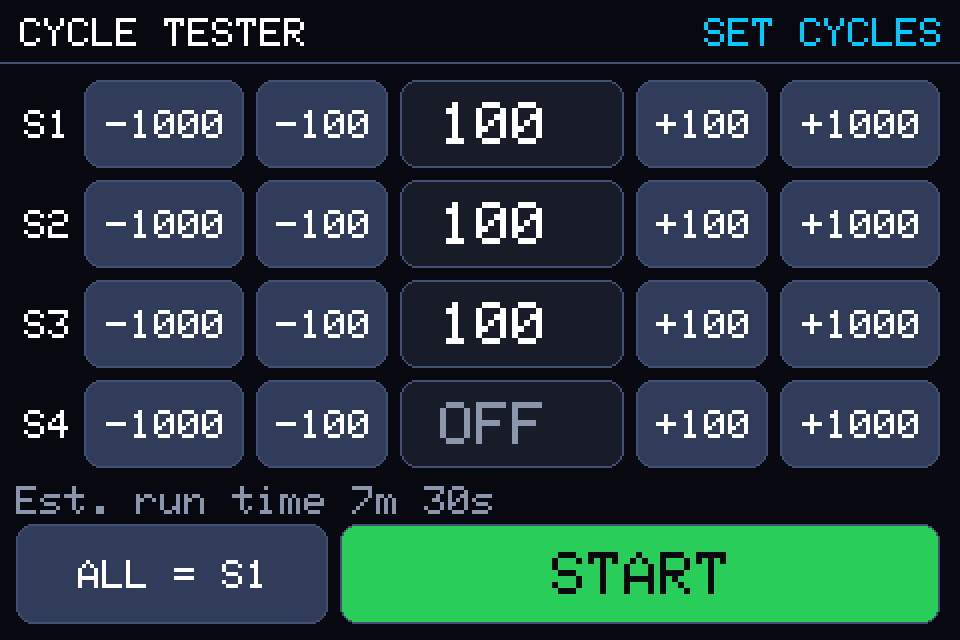
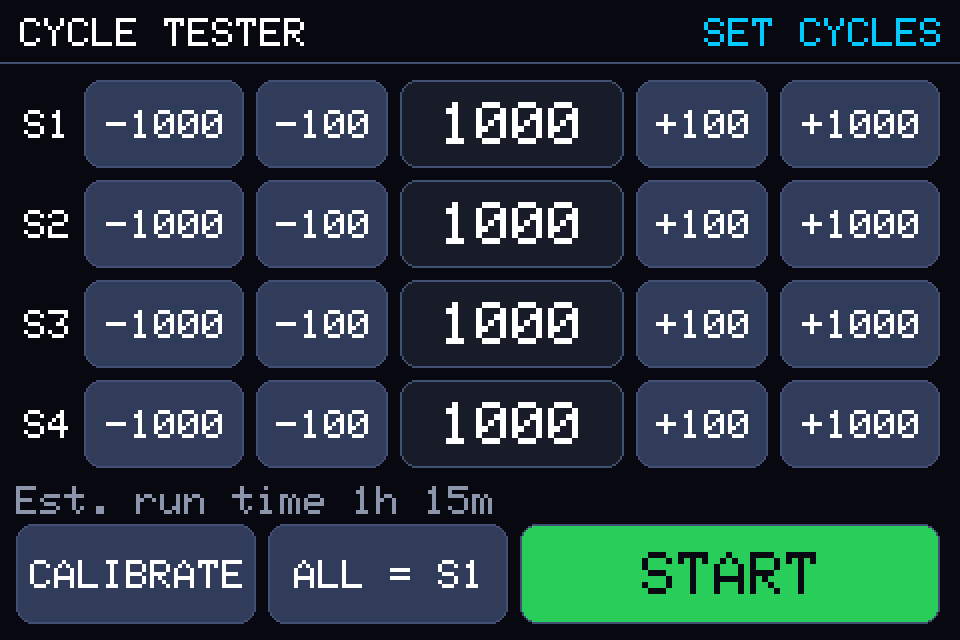
README: document two-slot save and calibration motion; refresh screenshots
Claude-Session: https://claude.ai/code/session_015bjMRFH4y1e8dQFCZZTh9d

diff --git a/README.md b/README.md
@@ -156,6 +156,8 @@ Everything visual is in `CycleTester/Ui.cpp`; the cycling logic never touches th
 * **Pulses above 2476 µs used to be silently clipped.** ServoEasing attaches the Servo library with its default 400–3500 µs range, but the AVR Servo library stores that range in signed 8-bit numbers that overflow, so the effective maximum became 2476 µs. With the old 180° defaults the 2500 µs end pulse was really sent as 2476 µs. `Config.h` now sets `MINIMUM_PULSE_WIDTH 400` / `MAXIMUM_PULSE_WIDTH 2600` before ServoEasing is included, which keeps the range within 8-bit limits. The PC simulation reproduces the real clip, so a regression is caught.
 * **The calibration screen drives the pulse width directly** (`Servo::writeMicroseconds`), because ServoEasing's degree scale is fixed when it is attached. After calibrating, the servo is released and re-attached with the new end points before the next test, so the two never disagree.
 * **Saved calibration carries a signature of the servo settings in `Config.h`** plus a checksum. Values measured for one configuration are never applied to another, and a damaged or blank EEPROM falls back to the `Config.h` values.
+* **Saving is power-cut safe.** Two copies are kept in the EEPROM and written alternately, each with a sequence number. A save always writes the copy that is *not* the newest, so if the power fails halfway through, the previous good copy is still there and is the one loaded next time; a half-written copy fails its checksum and is ignored. Saving values that are already stored writes nothing, so the EEPROM is not worn by repeated SAVE presses. The simulation cuts the power after every single byte of a save to prove this. (The first release kept one copy; it is still read, so nothing saved with it is lost.)
+* **The arm never snaps during calibration.** The first time a servo is switched on it is told to start where it was last left (so the horn does not jump), small adjustments (up to 50 µs, about 7°) are sent at once, and bigger moves such as GO START / GO END glide at a fixed slow rate. Leaving the screen glides every switched-on servo to its start position before releasing it.
 
 ## 8. What has and has not been verified
 
@@ -197,4 +199,5 @@ cd tests/host
 make            # runs all checks (needs g++)
 make pictures   # also saves PNGs of the screens in out/ (needs Python 3 + Pillow)
 make test180    # same, with the 180° servo settings
+make testnosave # same, with USE_SAVED_CALIBRATION = false (SAVE must refuse and store nothing)
 ```
